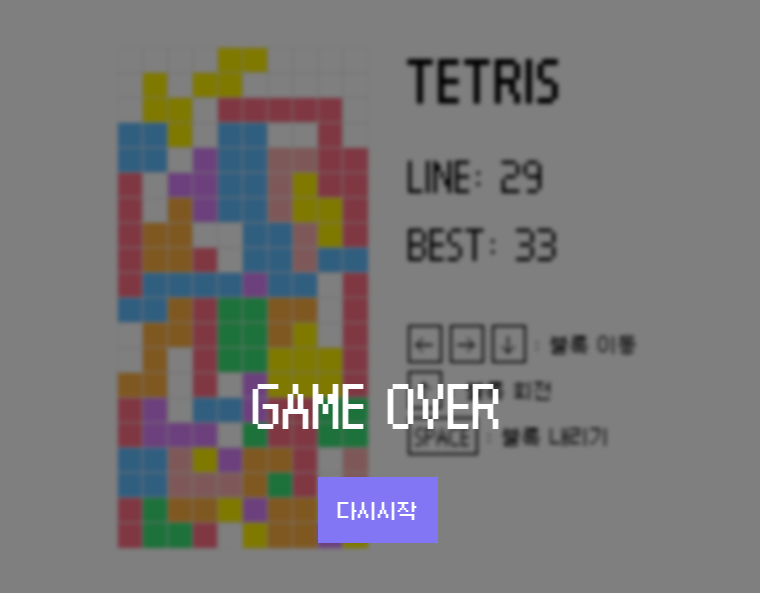
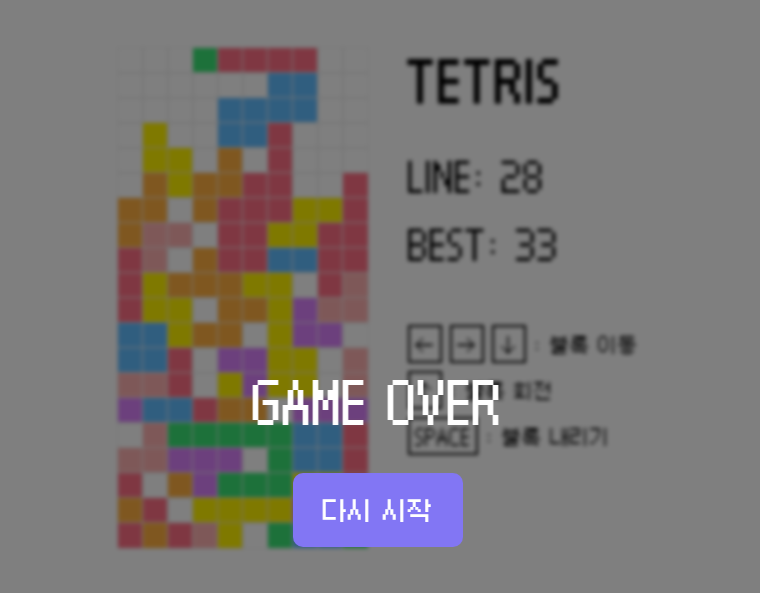
img

Changed region(s): [[0.1513, 0.0607, 0.6355, 0.941], [0.5145, 0.6374, 0.6658, 0.7285], [0.6658, 0.3035, 0.6961, 0.3339]]

diff --git a/index.html b/index.html
@@ -11,7 +11,7 @@
   <section id="wrapper">
     <div class="gameTxt gameTxtOver">
       <span>GAME OVER</span>
-      <button>다시시작</button>
+      <button>다시 시작</button>
     </div>
     <div class="gameTxt gameTxtStart">
       <span>PRESS ENTER TO START</span>

diff --git a/style.css b/style.css
@@ -41,10 +41,13 @@ body {
 
 .gameTxtOver > button {
   padding: 20px;
-  font-size: 20px;
+  padding-left: 30px;
+  padding-right: 30px;
+  font-size: 25px;
   color: #fff;
   background: #8276F4;
   border: none;
+  border-radius: 10px;
   cursor: pointer;
 }
 
